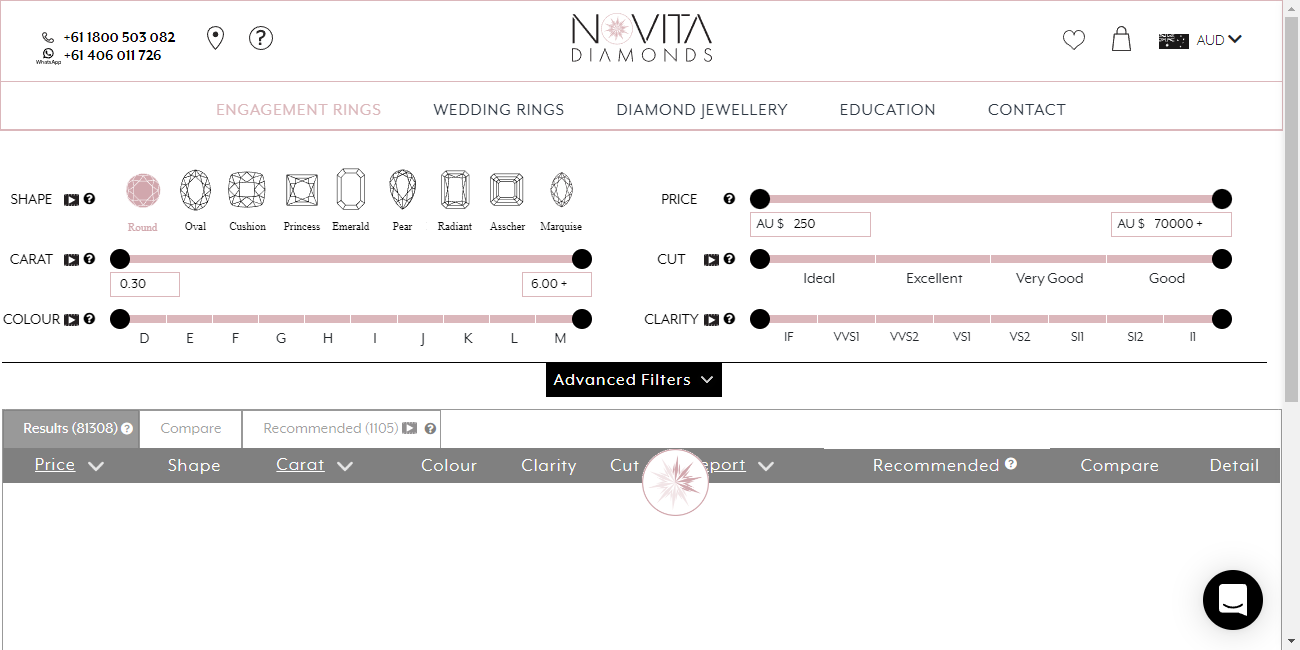
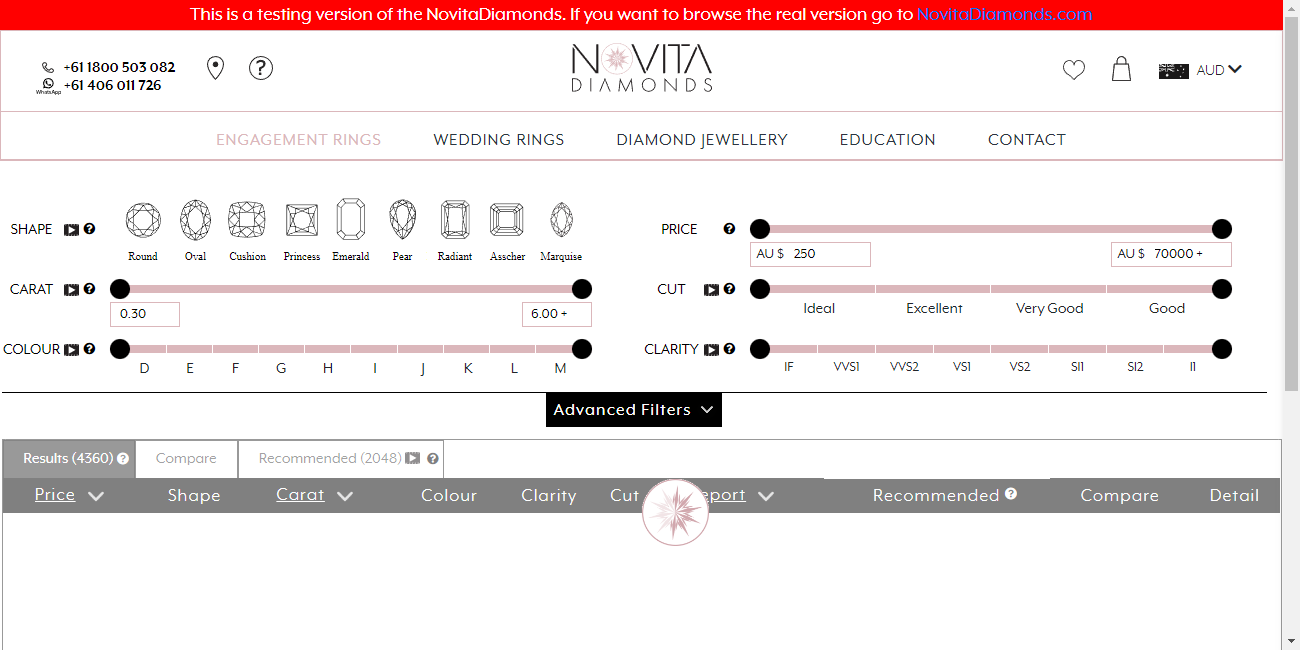
buy loose diamond

diff --git a/Test-BuyLooseDiamond.js b/Test-BuyLooseDiamond.js
@@ -20,6 +20,12 @@ Scenario('Buy a loose diamond', async ({ I }) => {
         },
         "priceFrom" : 15000,
         "priceTo" : 30000,
+        "cut" : {
+            "Ideal":[0, -500],
+            "Excellent":[100, -500],
+            "Very Good":[180, -500],
+            "Good":[500, 0],
+        },
         "clarity" : {
             "IF" : [0, -500],
             "VVS1" : [50, -500],
@@ -36,9 +42,19 @@ Scenario('Buy a loose diamond', async ({ I }) => {
     }
     // Wait for response and text
     function waitResponseAndtext() {
-        // I.waitForResponse('https://manmadediamonds.com.au/api/product/diamonds', 10);
-        I.waitForResponse('https://novitadiamonds.com/api/product/diamonds', 10);
-        I.waitForText('Detail', 10, '//*[@id="body_table_results"]/tr[1]/td[10]/a/div');
+        // I.waitForResponse('https://manmadediamonds.com.au/api/product/diamonds', 20);
+        // I.waitForResponse('https://novitadiamonds.com/api/product/diamonds', 20);
+        I.waitForText('Detail', 40, '//*[@id="body_table_results"]/tr[1]/td[10]/a/div');
+
+        // I.mockRoute('**/api/product/diamonds', async route => {
+        //     const response = await browserContext.request.fetch(route.request());
+        //     let results = await response.json();
+        //     console.log(results.response.items[0]);
+        // });
+
+        // I.usePlaywrightTo('emulate offline mode', async ({ browserContext }) => {
+        //     await browserContext.setOffline(true);
+        // });
     }
     // Checking the shape filter.
     function checkShape() {
@@ -61,6 +77,7 @@ Scenario('Buy a loose diamond', async ({ I }) => {
         I.pressKey("Enter");
         I.fillField("#to_carat_value_input", params.caratTo);
         I.pressKey("Enter");
+        waitResponseAndtext();
         const carat = await I.grabTextFromAll('tbody tr td:nth-child(3)');
         for (const elem of carat) {
             if(parseFloat(elem) < parseFloat(params.caratFrom) || parseFloat(elem) > parseFloat(params.caratTo)) {
@@ -71,7 +88,7 @@ Scenario('Buy a loose diamond', async ({ I }) => {
     };
     // Check the color filter
     async function checkColour(option) {
-        I.wait(1);
+        // I.wait(1);
         I.dragSlider("#search_form .diamond_filter_color_content .from", params.colour[option][0]);
         I.dragSlider("#search_form .diamond_filter_color_content .to", params.colour[option][1]);
         waitResponseAndtext();
@@ -89,6 +106,7 @@ Scenario('Buy a loose diamond', async ({ I }) => {
         I.pressKey('Enter');
         I.fillField("#to_price_value_input", params.priceTo);
         I.pressKey('Enter');
+        waitResponseAndtext();
         const prices = await I.grabTextFromAll('tbody tr td:nth-child(1)');
         for (const elem of prices) {
             if(((elem.slice(elem.indexOf('$')+1)).replace(',', '')) < params.priceFrom || ((elem.slice(elem.indexOf('$')+1)).replace(',', '')) > params.priceTo) {
@@ -99,10 +117,10 @@ Scenario('Buy a loose diamond', async ({ I }) => {
         }
     };
     // Check the cut option
-    function checkCut() {
-        I.wait(1);
-        I.dragSlider("#search_form .diamond_filter_cut_content .from", 57);
-        I.dragSlider("#search_form .diamond_filter_cut_content .to", -200);
+    async function checkCut() {
+        I.dragSlider("#search_form .diamond_filter_cut_content .from", 100);
+        I.dragSlider("#search_form .diamond_filter_cut_content .to", -500);
+        waitResponseAndtext();
         I.dontSee('Ideal', 'td');
         I.dontSee('Very Good', 'td');
         I.dontSee('Good', 'td');
@@ -112,7 +130,7 @@ Scenario('Buy a loose diamond', async ({ I }) => {
         I.wait(1);
         I.dragSlider("#search_form .diamond_filter_clarity_content .from", params.clarity[option][0]);
         I.dragSlider("#search_form .diamond_filter_clarity_content .to", params.clarity[option][1]);
-        I.wait(1);
+        waitResponseAndtext();
         const clarity = await I.grabTextFromAll('tbody tr td:nth-child(5)');
         for (const elem of clarity) {
             if(elem !== option) {
@@ -253,24 +271,28 @@ Scenario('Buy a loose diamond', async ({ I }) => {
     I.forceClick("BUY LOOSE DIAMONDS");
     I.seeInCurrentUrl("/buy-loose-diamond-start-buying");
     waitResponseAndtext();    
-    
 
     // CHECKING MAIN FILTERS
     //------------------------------------------------------------------------------
     I.say('CHECKING MAIN FILTERS');
-    checkShape();
-    checkCarat();
-    I.fillField("#from_carat_value_input", 0.30);
-    I.pressKey("Enter");
-    I.fillField("#to_carat_value_input", 6);
-    I.pressKey("Enter");
-    for (const elem of Object.keys(params.colour)) {
-        checkColour(elem);
-        I.dragSlider("#search_form .diamond_filter_color_content .from", -500);
-        I.dragSlider("#search_form .diamond_filter_color_content .to", 500);
-    };
-    pause();
+    // checkShape();
+    // checkCarat();
+    // I.fillField("#from_carat_value_input", 0.30);
+    // I.pressKey("Enter");
+    // I.fillField("#to_carat_value_input", 6);
+    // I.pressKey("Enter");
+    // for (const elem of Object.keys(params.colour)) {
+    //     checkColour(elem);
+    //     I.dragSlider("#search_form .diamond_filter_color_content .from", -500);
+    //     I.dragSlider("#search_form .diamond_filter_color_content .to", 500);
+    // };
     checkPrice();
+    I.fillField("#from_price_value_input", 250);
+    I.pressKey('Enter');
+    I.fillField("#to_price_value_input", 70000);
+    I.pressKey('Enter');
+    waitResponseAndtext();
+    pause();
     checkCut();
     for (const elem of Object.keys(params.clarity)) {
         checkClarity(elem);

diff --git a/codecept.conf.js b/codecept.conf.js
@@ -12,13 +12,11 @@ exports.config = {
   output: './output',
   helpers: {
     Playwright: {
-      url: 'https://novitadiamonds.com/',
+      // url: 'https://novitadiamonds.com/',
       // url: 'http://novitadiamonds.localhost',
-      // url: 'https://manmadediamonds.com.au/',
+      url: 'https://manmadediamonds.com.au/',
       show: true,
       browser: 'chromium',
-      // waitForAction: 2000,
-      // waitForNavigation: "domcontentloaded",
       windowSize: "1300x650"
     },
     JSONResponse: {
